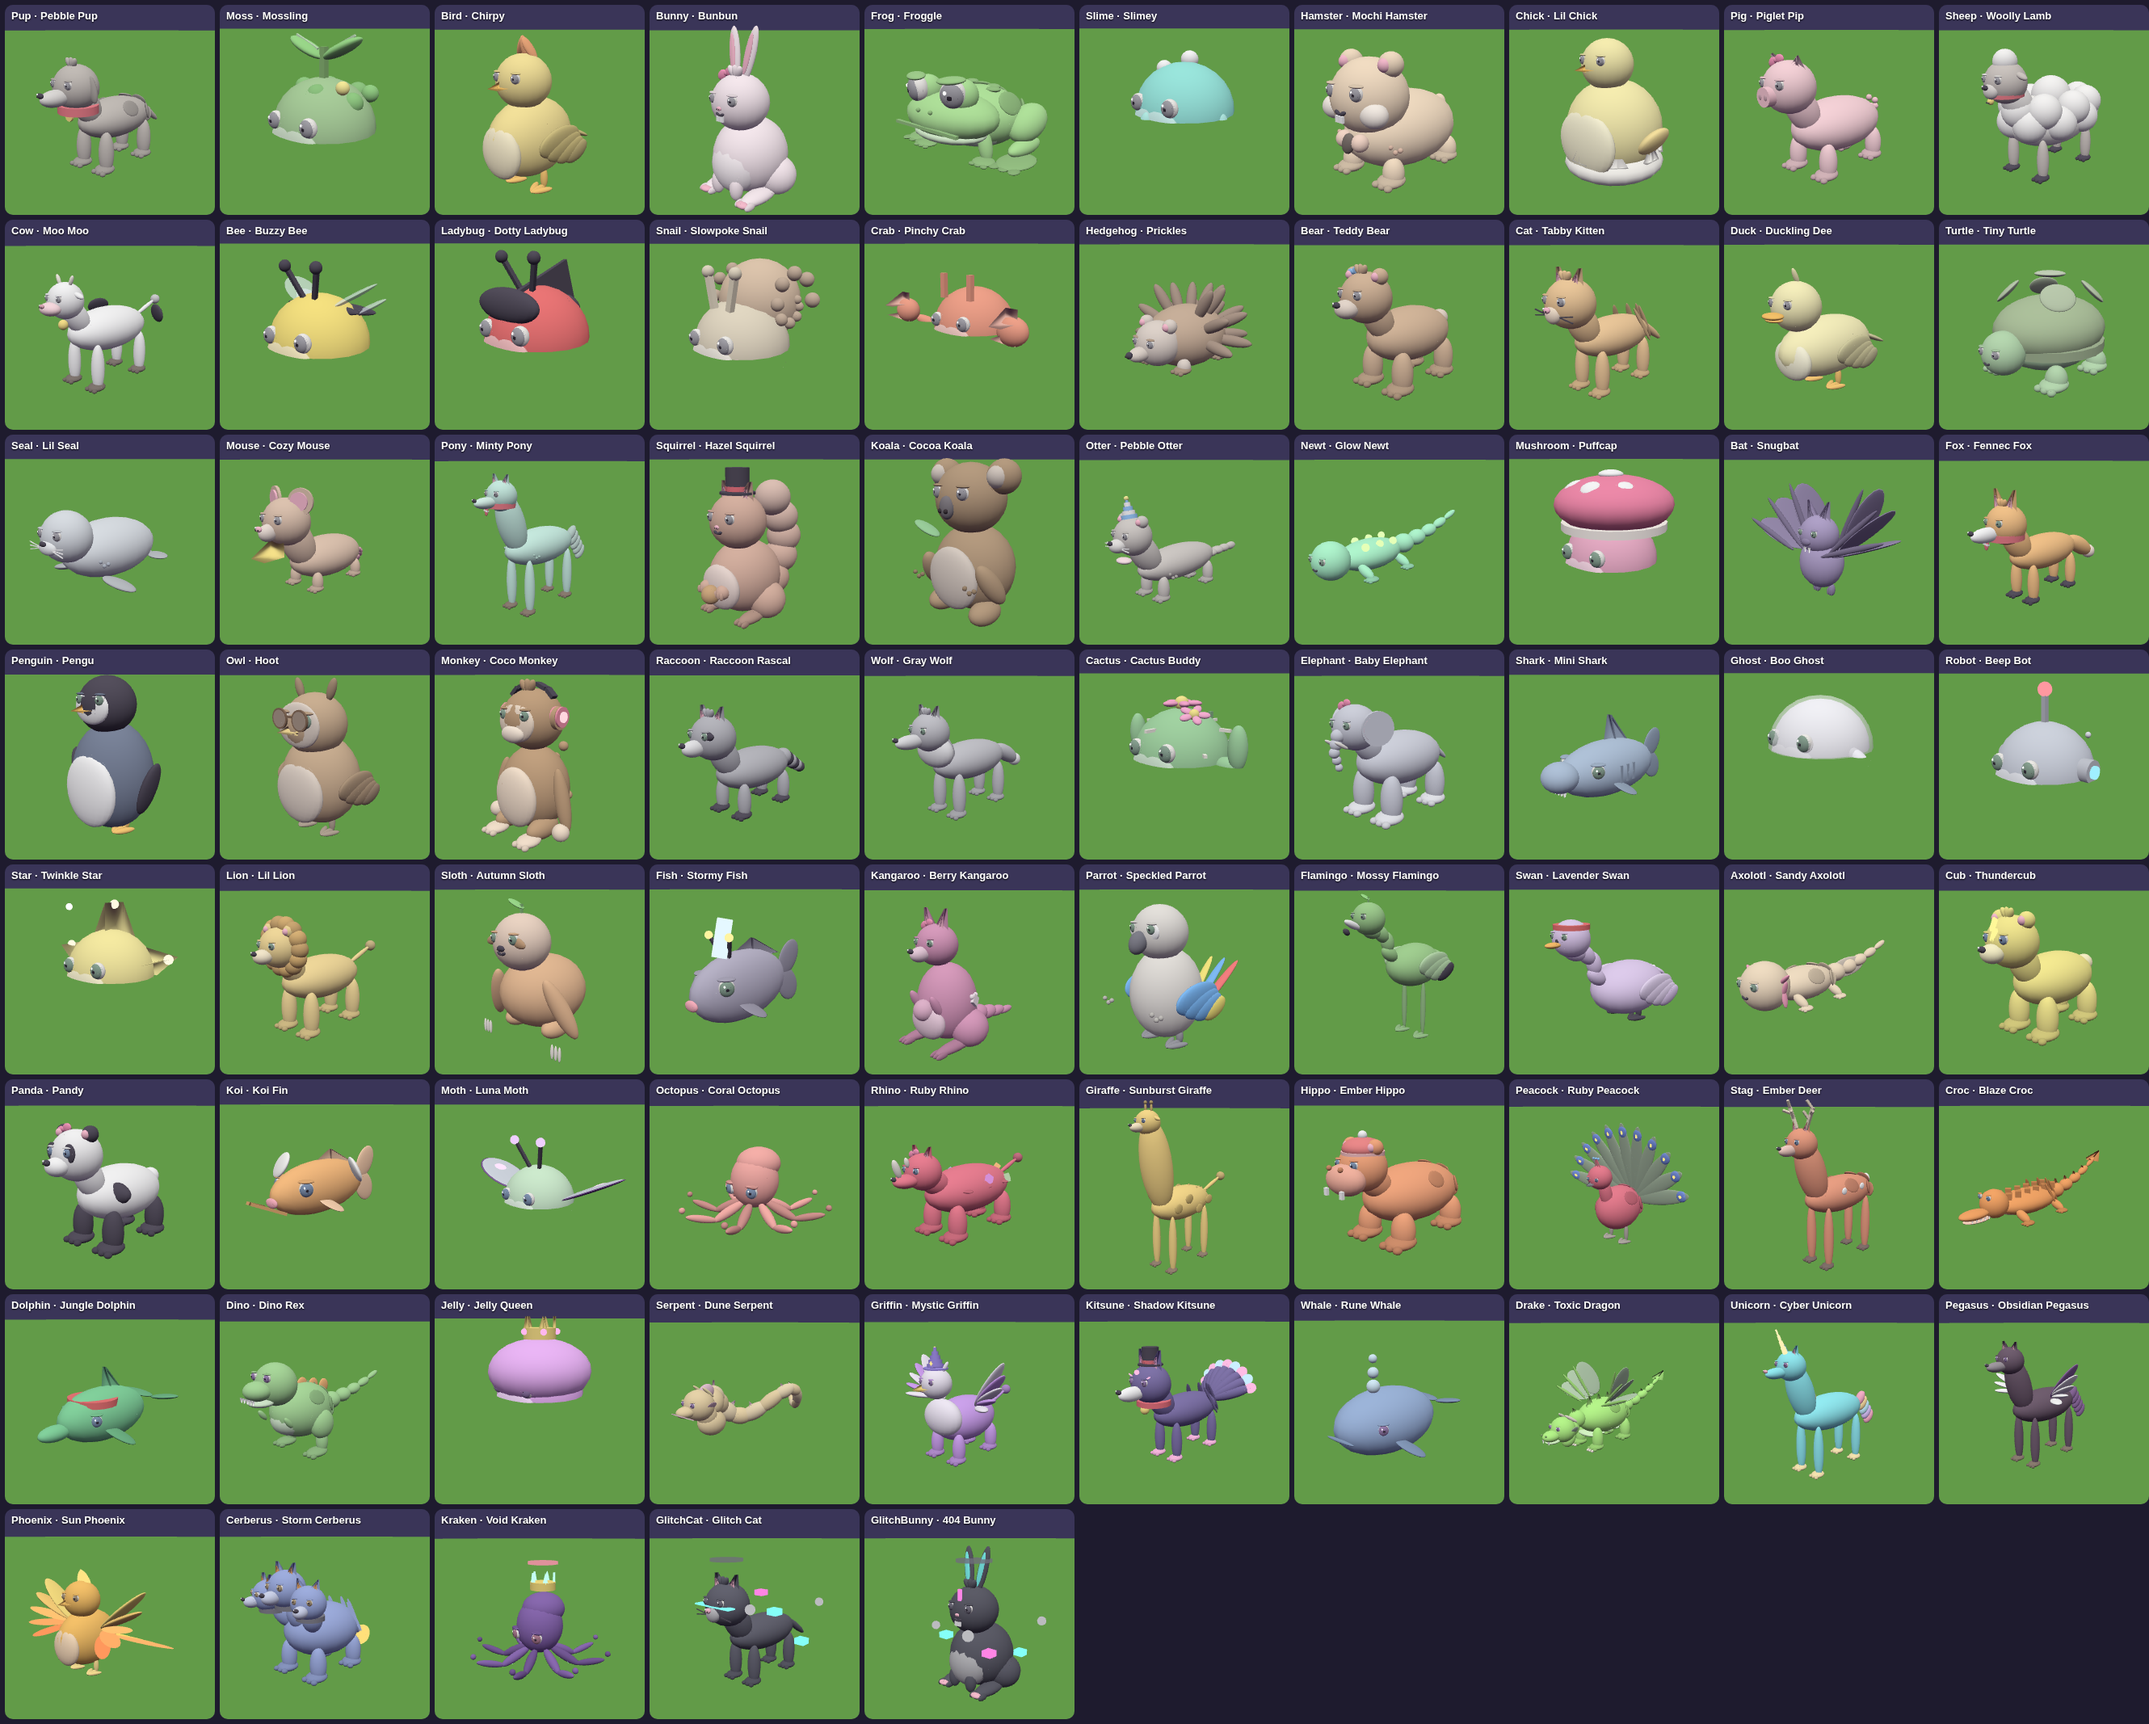
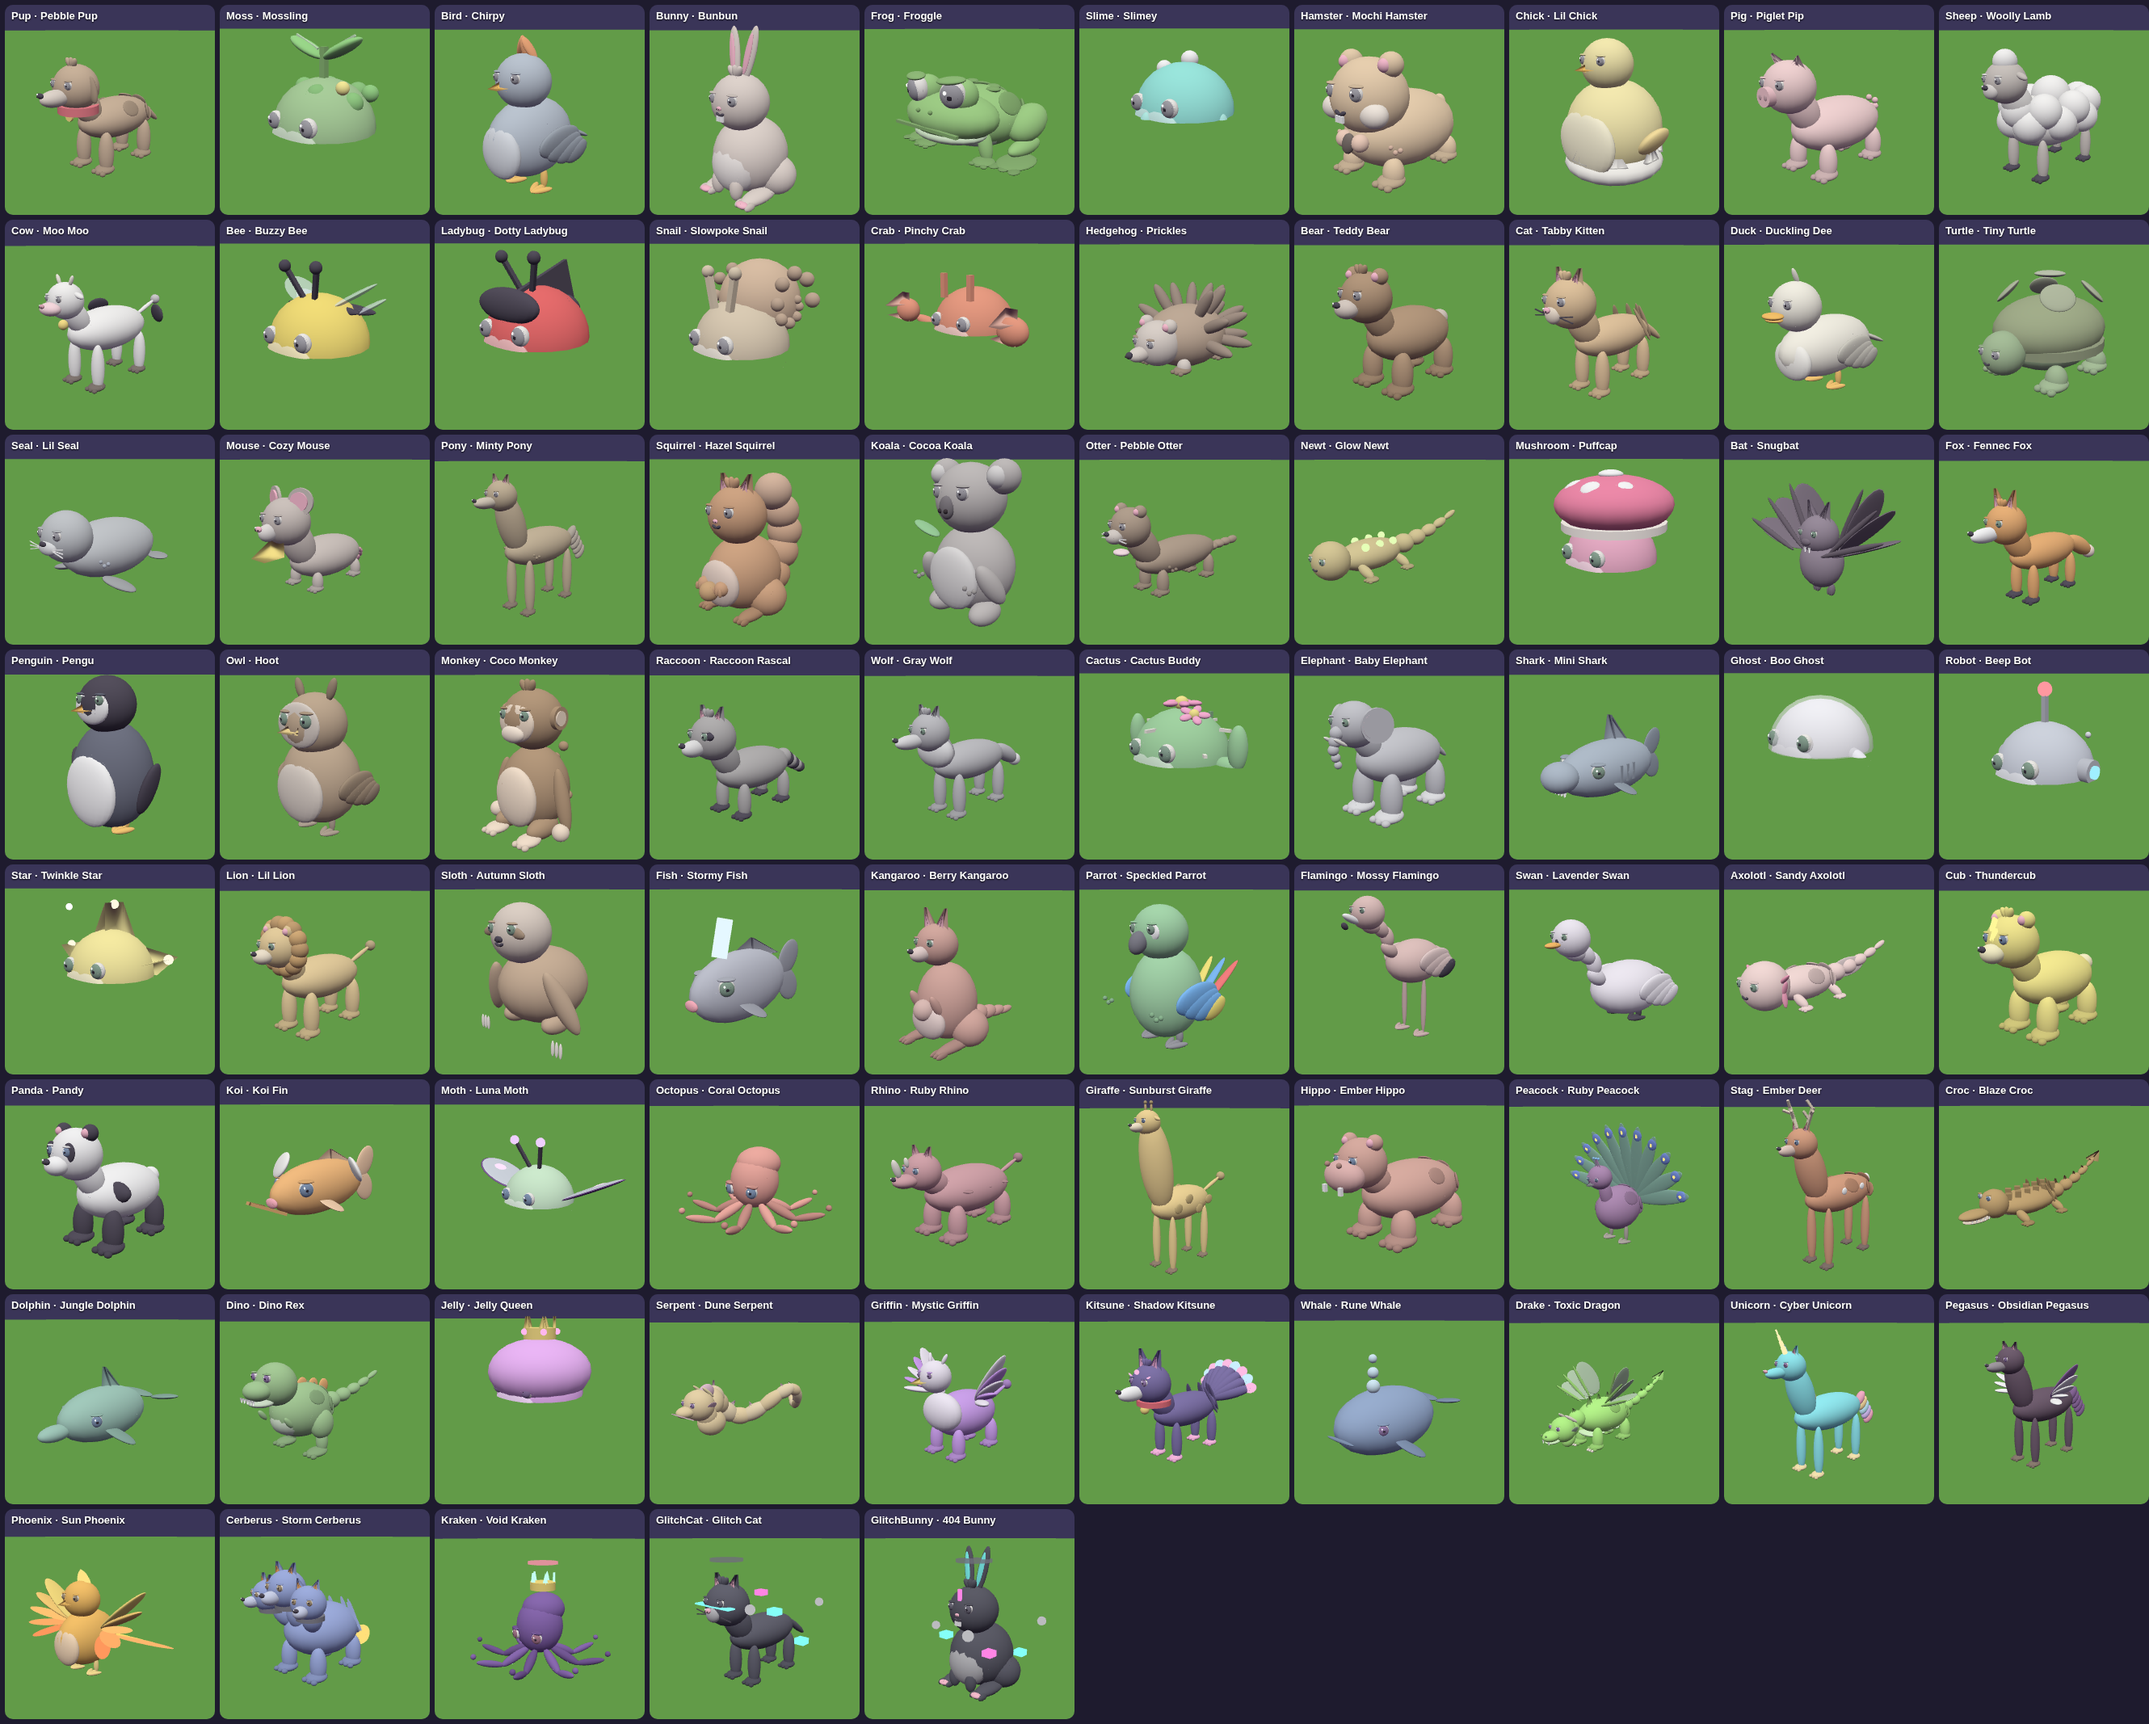
Natural colors and no costumes for everyday pets; keep eggs off set pieces
Common-Epic pets blend toward their species' real color (rarer pets
keep more of their own), skip accessories and only use natural
patterns. Egg spots now keep a wider berth from set pieces.

Claude-Session: https://claude.ai/code/session_01WgF6ws6si8hcaGidQwzxpG

diff --git a/steal-a-pet-egg/README.md b/steal-a-pet-egg/README.md
@@ -65,7 +65,7 @@ Game Settings > Security > **Enable Studio Access to API Services**.
 - **Bonk Bat:** swing it (slash animation, sound, "BONK!" pop). Hit an egg carrier and they drop it. An egg stolen from a base flies back to its owner.
 - **Base Lock:** the blue pad. Blocks stealing from your base for 60s, then recharges for 90s.
 - **Top rarities for the late game:** above Secret are 🌟 **Astral** (9 pets, $2M-6M/s each), 🌌 **Cosmic** (8 pets, $25M-70M/s) and 🔴 **Omega** (8 pets, $300M-900M/s), only found in zones 13-20, each with their own egg designs. Grown, fused Omega pets earn hundreds of billions per second, enough for the late treadmill tiers.
-- **Pets look like real animals:** real-animal proportions (longer bodies, longer legs, smaller heads on proper necks, longer muzzles; slimmer birds), realistic eyes (a dark iris with a thin rim of white), fur and feather textures on mammals and birds, glossy skin on reptiles and sea animals, toes, nostrils and a soft brow; frogs, octopuses, krakens and bats have their own bodies. See `all_pets_preview.png` (one of every species) and `pets_realistic_preview.png`.
+- **Pets look like real animals:** everyday pets (Common to Epic) have their real animal's natural colors (rarer pets keep more of their own color; Mythic and up are fully magical), no hats or costumes and only natural markings (spots, stripes, patches, freckles); real-animal proportions (longer bodies, longer legs, smaller heads on proper necks, longer muzzles; slimmer birds), realistic eyes (a dark iris with a thin rim of white), fur and feather textures on mammals and birds, glossy skin on reptiles and sea animals, toes, nostrils and a soft brow; frogs, octopuses, krakens and bats have their own bodies. See `all_pets_preview.png` (one of every species) and `pets_realistic_preview.png`.
 - **Pet income:** every pet earns 3x its listed income (`Config.IncomeMultiplier`), and babies already earn half of what adults do (Baby 1.5x, Juvenile 2x, Adolescent 2.2x, Adult 3x), so new pets pay off right away.
 - **Egg size = pet size:** every pet's size is rolled when its egg appears, and the egg is scaled to match: big pets (1.35x-2x) come in eggs up to about 1.9x bigger labelled **BIG**, huge pets (2x-3x) in eggs up to 2.4x bigger labelled **HUGE**. Wild nests (and the glowing rarity ring under them) resize to fit whatever egg spawns in them. What you see is what hatches (`Config.EggScale`).
 - **16 mutations:** 🕳 Void (x12, rarest), ☀ Solar (x6), 💡 Neon (x6), 🌌 Galaxy (x10), 🌈 Rainbow (x7), 🌑 Shadow (x5), 👻 Ghostly (x5), ☢ Toxic (x4.5), 🔥 Lava (x4), ❄ Frozen (x4), 🔷 Crystal (x3.5), ⚡ Electric (x3.5), 💎 Diamond (x3), 🍬 Candy (x2.5), 💧 Aqua (x2.5) and 🌟 Golden (x2). Each has its own look on eggs and pets (color, material, glow and particles). Tune them in `Config.Mutations`.
